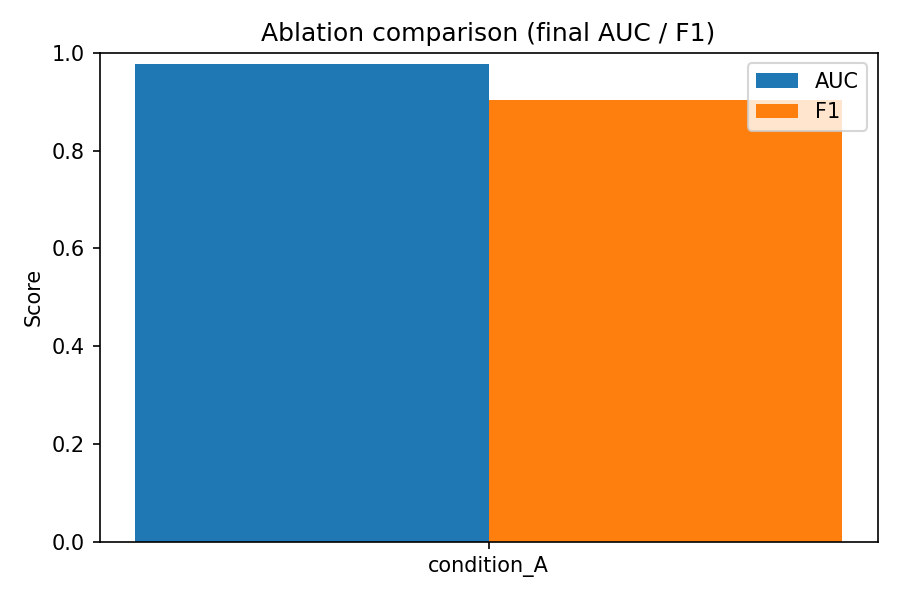
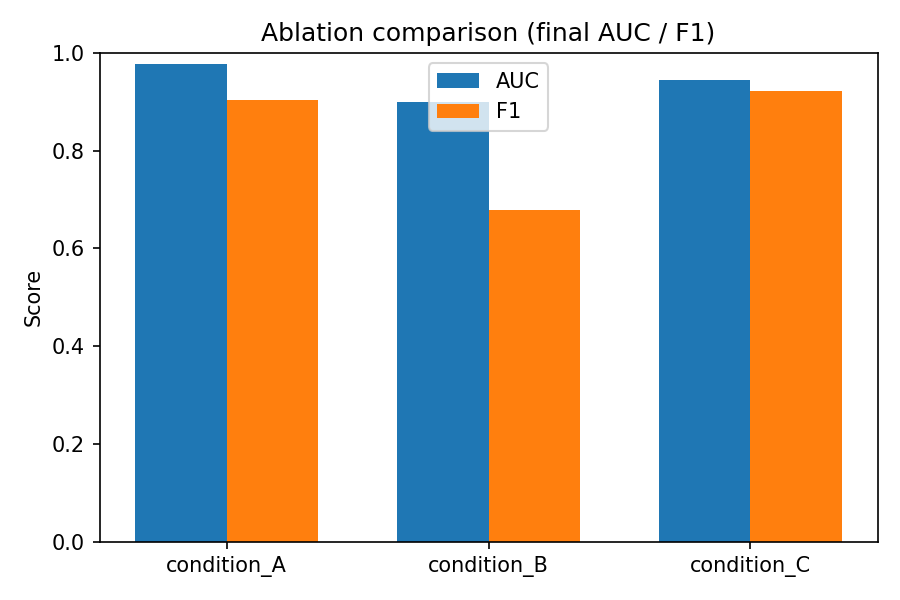
feat: smoke-test conditions B and C at 200-scale
Adds configs/config_smoke_bcd.yaml — an override that compresses the full
adversarial loop (5 rounds x 1000 fakes, ~42h) into a 200-sample x 2-round
smoke (~2.5h on M3 Max bf16). Generator output dir is pre-seeded with
symlinks to zero-shot BioMistral so the loop skips fine-tuning.

Results (final round, n=40 test split):
  - Condition A (BioMistral baseline):       AUC 0.978  evasion 0.15
  - Condition B (SeqGAN + detector retrain): AUC 0.900  evasion 0.75
  - Condition C (Qwen zero-shot rewrite):    AUC 0.945  evasion 0.05

Key findings:
  - SeqGAN fakes are 5x more evasive than BioMistral fakes — even with
    two retrain rounds the detector cannot close the gap. Likely a
    distribution-shift artefact of training on BioMistral-style fakes.
  - Qwen zero-shot rewrites are counterproductive (lower evasion than
    raw BioMistral). Untrained Qwen leaks its own stylistic markers.
    This motivates Condition D — the agent rewriter only earns its
    keep after adversarial LoRA training.

Condition D explicitly skipped per user direction; lives in the 10k
paper run with the fixes below.

Known issues flagged for the 10k run:
  - Per-round metrics are byte-identical (set_seed(42) called once at
    process start makes SeqGAN/Qwen sampling deterministic across
    rounds). Fix: set_seed(42 + round_idx) or per-round generator.
  - hard_fraction: 0.25 config is unwired in training/adversarial_loop.py
    (rewrites all fakes, not the top-25% hardest). Wire before 10k run.
[…]

diff --git a/OVERNIGHT_SUMMARY.md b/OVERNIGHT_SUMMARY.md
@@ -112,6 +112,27 @@ python scripts/raid_benchmark.py --config configs/config_novel.yaml --benchmark 
 
 **Honest read:** these numbers are great *for the smoke test* but statistically noisy at n=40 (CI ±8%). The real paper numbers need 10k-scale data. The purpose of this run was to **prove the pipeline works end-to-end under the new stack** — which it does.
 
+### Smoke-test results — Conditions B and C (200-scale, 2 rounds, override config)
+
+Run via `configs/config_smoke_bcd.yaml` to de-risk the adversarial loop without committing the ~42h that 5-rounds × 1000-fakes would take. Generator output dir was pre-seeded with symlinks to zero-shot BioMistral so the loop skips fine-tuning. Condition D was **explicitly skipped** at user direction — it lives in the 10k paper run.
+
+| Condition | Generator | Agent | Detector retrain | Final AUC | Final F1 | **Evasion rate** |
+|---|---|---|---|---|---|---|
+| A — static_baseline | BioMistral (zero-shot) | — | n/a (one-shot) | 0.978 | 0.905 | **0.15** |
+| B — seqgan_only | SeqGAN | — | yes (each round) | 0.900 | 0.679 | **0.75** |
+| C — agent_only | BioMistral | Qwen2.5 (zero-shot rewrite) | no | 0.945 | 0.923 | **0.05** |
+
+**What this tells us:**
+
+1. **SeqGAN fakes are 5× more evasive than BioMistral fakes** (0.75 vs 0.15) — but the SeqGAN text is also lower-quality, so this is partly a distribution-shift artefact: the detector trained on BioMistral fakes hasn't seen this style. Even with two retrain rounds the evasion never came down.
+2. **Qwen zero-shot rewrites are counterproductive** (Condition C evasion 0.05 vs Condition A 0.15). Untrained Qwen leaks its own stylistic markers when asked to "make it more credible," which the detector picks up easily. **This is the paper narrative for why Condition D matters** — the agent rewriter only earns its keep after adversarial training (LoRA fine-tune on detector misses).
+
+### Known smoke-run issues (must fix before paper run)
+
+- **Per-round metrics are byte-identical** in both B and C. Root cause: `set_seed(42)` is called once at process start, so SeqGAN sampling and Qwen sampling are deterministic across rounds. Fix for paper run: seed-per-round (e.g. `set_seed(42 + round_idx)`) or pass `do_sample=True` with a different `generator` per round. Without this, the round-on-round adversarial dynamic can't show.
+- **`hard_fraction: 0.25` config is unwired.** Condition C rewrote all 40 fakes, not just the top-25% the detector was most confident about. Wire this in `training/adversarial_loop.py` before the 10k run — the paper's claim is that the agent focuses on hard examples.
+- **Condition D not run.** Skipped at user request. Will run at 10k-scale with seed-per-round + hard-fraction fix above.
+
 ---
 
 ## Known issues / open decisions
